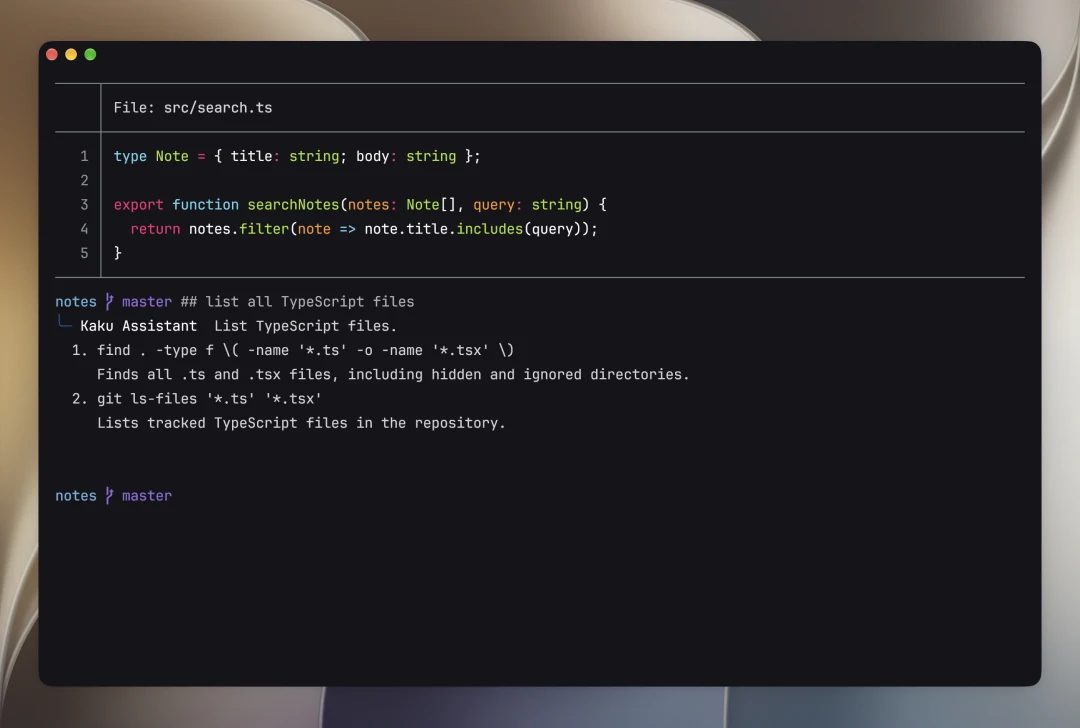
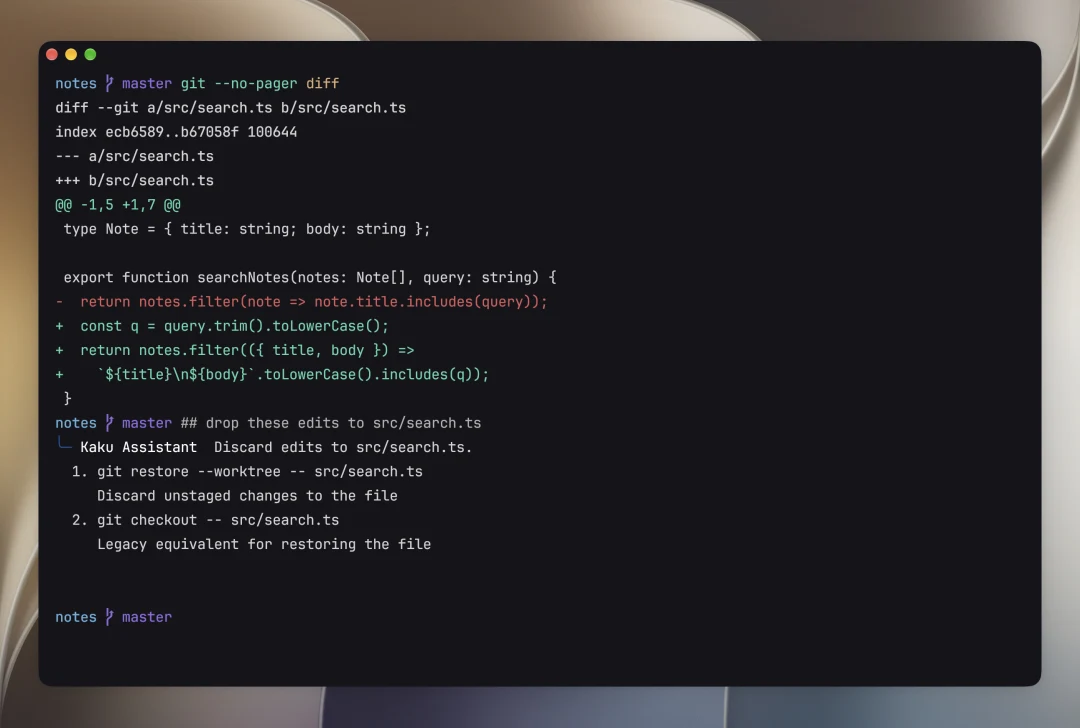
fix(site): retake the commands shot with a diff and a whole summary
The old shot left the bottom half empty and its summary cut src/search.ts short. The new one shows the diff being asked about, and the summary keeps the file name whole.

Changed region(s): [[0.0306, 0.0907, 0.6417, 0.7555], [0.0611, 0.8462, 0.1528, 0.8764]]

diff --git a/index.html b/index.html
@@ -212,7 +212,7 @@
           <figure class="gallery-panel is-active" id="shot-ai" role="tabpanel" aria-labelledby="tab-ai"><a href="/shots/home/ai.webp?v=ca1374cd3185" tabindex="-1"><img src="/shots/home/ai-1980w.webp?v=ca1374cd3185" srcset="/shots/home/ai-1080w.webp?v=ca1374cd3185 1080w, /shots/home/ai-1980w.webp?v=ca1374cd3185 1980w, /shots/home/ai.webp?v=ca1374cd3185 2584w" sizes="(max-width: 1120px) calc(100vw - 32px), 992px" width="2584" height="1741" fetchpriority="high" decoding="async" alt="Claude Code works in your project, and its topic shows at the top right"></a></figure>
           <figure class="gallery-panel" id="shot-panes" role="tabpanel" aria-labelledby="tab-panes" aria-hidden="true"><a href="/shots/home/panes.webp?v=442e35ad0e76" tabindex="-1"><img src="/shots/home/panes-1980w.webp?v=442e35ad0e76" srcset="/shots/home/panes-1080w.webp?v=442e35ad0e76 1080w, /shots/home/panes-1980w.webp?v=442e35ad0e76 1980w, /shots/home/panes.webp?v=442e35ad0e76 2584w" sizes="(max-width: 1120px) calc(100vw - 32px), 992px" width="2584" height="1741" loading="lazy" decoding="async" alt="Press Cmd + D to split, and tabs sit along the bottom"></a></figure>
           <figure class="gallery-panel" id="shot-assistant" role="tabpanel" aria-labelledby="tab-assistant" aria-hidden="true"><a href="/shots/home/assistant.webp?v=0552264029aa" tabindex="-1"><img src="/shots/home/assistant-1980w.webp?v=0552264029aa" srcset="/shots/home/assistant-1080w.webp?v=0552264029aa 1080w, /shots/home/assistant-1980w.webp?v=0552264029aa 1980w, /shots/home/assistant.webp?v=0552264029aa 2584w" sizes="(max-width: 1120px) calc(100vw - 32px), 992px" width="2584" height="1741" loading="lazy" decoding="async" alt="Press Cmd + L to ask, then copy or insert the command"></a></figure>
-          <figure class="gallery-panel" id="shot-commands" role="tabpanel" aria-labelledby="tab-commands" aria-hidden="true"><a href="/shots/home/commands.webp?v=b7734a4016c7" tabindex="-1"><img src="/shots/home/commands-1980w.webp?v=b7734a4016c7" srcset="/shots/home/commands-1080w.webp?v=b7734a4016c7 1080w, /shots/home/commands-1980w.webp?v=b7734a4016c7 1980w, /shots/home/commands.webp?v=b7734a4016c7 2584w" sizes="(max-width: 1120px) calc(100vw - 32px), 992px" width="2584" height="1741" loading="lazy" decoding="async" alt="Type ## and a sentence to get a few commands to pick from"></a></figure>
+          <figure class="gallery-panel" id="shot-commands" role="tabpanel" aria-labelledby="tab-commands" aria-hidden="true"><a href="/shots/home/commands.webp?v=ab5d688edceb" tabindex="-1"><img src="/shots/home/commands-1980w.webp?v=ab5d688edceb" srcset="/shots/home/commands-1080w.webp?v=ab5d688edceb 1080w, /shots/home/commands-1980w.webp?v=ab5d688edceb 1980w, /shots/home/commands.webp?v=ab5d688edceb 2584w" sizes="(max-width: 1120px) calc(100vw - 32px), 992px" width="2584" height="1741" loading="lazy" decoding="async" alt="Type ## and a sentence to get a few commands to pick from"></a></figure>
           <figure class="gallery-panel" id="shot-files-dark" role="tabpanel" aria-labelledby="tab-files-dark" aria-hidden="true"><a href="/shots/home/files-dark.webp?v=fce983ac5f46" tabindex="-1"><img src="/shots/home/files-dark-1980w.webp?v=fce983ac5f46" srcset="/shots/home/files-dark-1080w.webp?v=fce983ac5f46 1080w, /shots/home/files-dark-1980w.webp?v=fce983ac5f46 1980w, /shots/home/files-dark.webp?v=fce983ac5f46 2584w" sizes="(max-width: 1120px) calc(100vw - 32px), 992px" width="2584" height="1741" loading="lazy" decoding="async" alt="Press Cmd + Shift + Y to browse files and code with Yazi"></a></figure>
           <figure class="gallery-panel" id="shot-files-light" role="tabpanel" aria-labelledby="tab-files-light" aria-hidden="true"><a href="/shots/home/files-light.webp?v=5e7ccdb5302e" tabindex="-1"><img src="/shots/home/files-light-1980w.webp?v=5e7ccdb5302e" srcset="/shots/home/files-light-1080w.webp?v=5e7ccdb5302e 1080w, /shots/home/files-light-1980w.webp?v=5e7ccdb5302e 1980w, /shots/home/files-light.webp?v=5e7ccdb5302e 2584w" sizes="(max-width: 1120px) calc(100vw - 32px), 992px" width="2584" height="1741" loading="lazy" decoding="async" alt="The same workspace in Kaku Light"></a></figure>
           <figure class="gallery-panel" id="shot-settings" role="tabpanel" aria-labelledby="tab-settings" aria-hidden="true"><a href="/shots/home/settings.webp?v=f4a44ffaa78b" tabindex="-1"><img src="/shots/home/settings-1980w.webp?v=f4a44ffaa78b" srcset="/shots/home/settings-1080w.webp?v=f4a44ffaa78b 1080w, /shots/home/settings-1980w.webp?v=f4a44ffaa78b 1980w, /shots/home/settings.webp?v=f4a44ffaa78b 2584w" sizes="(max-width: 1120px) calc(100vw - 32px), 992px" width="2584" height="1741" loading="lazy" decoding="async" alt="Run kaku config to change fonts, themes and windows"></a></figure>

diff --git a/zh/index.html b/zh/index.html
@@ -246,7 +246,7 @@
           <figure class="gallery-panel is-active" id="shot-ai" role="tabpanel" aria-labelledby="tab-ai"><a href="/shots/home/ai.webp?v=ca1374cd3185" tabindex="-1"><img src="/shots/home/ai-1980w.webp?v=ca1374cd3185" srcset="/shots/home/ai-1080w.webp?v=ca1374cd3185 1080w, /shots/home/ai-1980w.webp?v=ca1374cd3185 1980w, /shots/home/ai.webp?v=ca1374cd3185 2584w" sizes="(max-width: 1120px) calc(100vw - 32px), 992px" width="2584" height="1741" fetchpriority="high" decoding="async" alt="Claude Code 在项目里干活，窗口右上角显示它正在做什么"></a></figure>
           <figure class="gallery-panel" id="shot-panes" role="tabpanel" aria-labelledby="tab-panes" aria-hidden="true"><a href="/shots/home/panes.webp?v=442e35ad0e76" tabindex="-1"><img src="/shots/home/panes-1980w.webp?v=442e35ad0e76" srcset="/shots/home/panes-1080w.webp?v=442e35ad0e76 1080w, /shots/home/panes-1980w.webp?v=442e35ad0e76 1980w, /shots/home/panes.webp?v=442e35ad0e76 2584w" sizes="(max-width: 1120px) calc(100vw - 32px), 992px" width="2584" height="1741" loading="lazy" decoding="async" alt="按 Cmd + D 分屏，标签排在窗口底部"></a></figure>
           <figure class="gallery-panel" id="shot-assistant" role="tabpanel" aria-labelledby="tab-assistant" aria-hidden="true"><a href="/shots/home/assistant.webp?v=0552264029aa" tabindex="-1"><img src="/shots/home/assistant-1980w.webp?v=0552264029aa" srcset="/shots/home/assistant-1080w.webp?v=0552264029aa 1080w, /shots/home/assistant-1980w.webp?v=0552264029aa 1980w, /shots/home/assistant.webp?v=0552264029aa 2584w" sizes="(max-width: 1120px) calc(100vw - 32px), 992px" width="2584" height="1741" loading="lazy" decoding="async" alt="按 Cmd + L 直接问，回答里的命令可以复制或插入"></a></figure>
-          <figure class="gallery-panel" id="shot-commands" role="tabpanel" aria-labelledby="tab-commands" aria-hidden="true"><a href="/shots/home/commands.webp?v=b7734a4016c7" tabindex="-1"><img src="/shots/home/commands-1980w.webp?v=b7734a4016c7" srcset="/shots/home/commands-1080w.webp?v=b7734a4016c7 1080w, /shots/home/commands-1980w.webp?v=b7734a4016c7 1980w, /shots/home/commands.webp?v=b7734a4016c7 2584w" sizes="(max-width: 1120px) calc(100vw - 32px), 992px" width="2584" height="1741" loading="lazy" decoding="async" alt="输入 ## 加一句话，给出几条命令供你挑"></a></figure>
+          <figure class="gallery-panel" id="shot-commands" role="tabpanel" aria-labelledby="tab-commands" aria-hidden="true"><a href="/shots/home/commands.webp?v=ab5d688edceb" tabindex="-1"><img src="/shots/home/commands-1980w.webp?v=ab5d688edceb" srcset="/shots/home/commands-1080w.webp?v=ab5d688edceb 1080w, /shots/home/commands-1980w.webp?v=ab5d688edceb 1980w, /shots/home/commands.webp?v=ab5d688edceb 2584w" sizes="(max-width: 1120px) calc(100vw - 32px), 992px" width="2584" height="1741" loading="lazy" decoding="async" alt="输入 ## 加一句话，给出几条命令供你挑"></a></figure>
           <figure class="gallery-panel" id="shot-files-dark" role="tabpanel" aria-labelledby="tab-files-dark" aria-hidden="true"><a href="/shots/home/files-dark.webp?v=fce983ac5f46" tabindex="-1"><img src="/shots/home/files-dark-1980w.webp?v=fce983ac5f46" srcset="/shots/home/files-dark-1080w.webp?v=fce983ac5f46 1080w, /shots/home/files-dark-1980w.webp?v=fce983ac5f46 1980w, /shots/home/files-dark.webp?v=fce983ac5f46 2584w" sizes="(max-width: 1120px) calc(100vw - 32px), 992px" width="2584" height="1741" loading="lazy" decoding="async" alt="按 Cmd + Shift + Y 用 Yazi 浏览文件和代码"></a></figure>
           <figure class="gallery-panel" id="shot-files-light" role="tabpanel" aria-labelledby="tab-files-light" aria-hidden="true"><a href="/shots/home/files-light.webp?v=5e7ccdb5302e" tabindex="-1"><img src="/shots/home/files-light-1980w.webp?v=5e7ccdb5302e" srcset="/shots/home/files-light-1080w.webp?v=5e7ccdb5302e 1080w, /shots/home/files-light-1980w.webp?v=5e7ccdb5302e 1980w, /shots/home/files-light.webp?v=5e7ccdb5302e 2584w" sizes="(max-width: 1120px) calc(100vw - 32px), 992px" width="2584" height="1741" loading="lazy" decoding="async" alt="同一个工作区换成 Kaku Light"></a></figure>
           <figure class="gallery-panel" id="shot-settings" role="tabpanel" aria-labelledby="tab-settings" aria-hidden="true"><a href="/shots/home/settings.webp?v=f4a44ffaa78b" tabindex="-1"><img src="/shots/home/settings-1980w.webp?v=f4a44ffaa78b" srcset="/shots/home/settings-1080w.webp?v=f4a44ffaa78b 1080w, /shots/home/settings-1980w.webp?v=f4a44ffaa78b 1980w, /shots/home/settings.webp?v=f4a44ffaa78b 2584w" sizes="(max-width: 1120px) calc(100vw - 32px), 992px" width="2584" height="1741" loading="lazy" decoding="async" alt="运行 kaku config 调整字体、主题和窗口"></a></figure>
